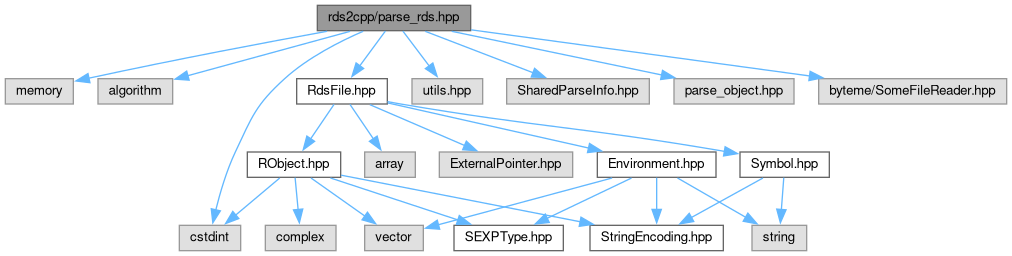
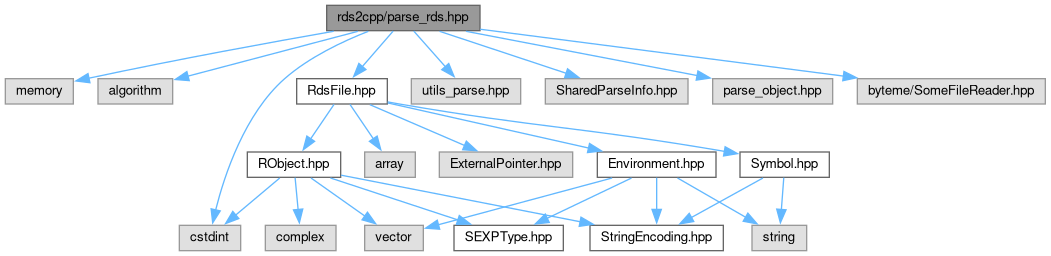
Deploying to gh-pages from @ LTLA/rds2cpp@49edde7863f42cb13daee3e616c2d430f779d815 🚀

diff --git a/docs/rds2cpp_8hpp.html b/docs/rds2cpp_8hpp.html
@@ -90,31 +90,31 @@ Include dependency graph for rds2cpp.hpp:</div>
 <div class="dyncontent">
 <div class="center"><img src="rds2cpp_8hpp__incl.png" border="0" usemap="#ards2cpp_2rds2cpp_8hpp" alt=""/></div>
 <map name="ards2cpp_2rds2cpp_8hpp" id="ards2cpp_2rds2cpp_8hpp">
-<area shape="rect" title="Entrypoint header." alt="" coords="659,5,801,31"/>
-<area shape="rect" href="parse__rds_8hpp.html" title="Parse an RDS file." alt="" coords="363,79,465,104"/>
-<area shape="rect" href="write__rds_8hpp.html" title="Write an RDS file." alt="" coords="1053,79,1151,104"/>
+<area shape="rect" title="Entrypoint header." alt="" coords="697,5,840,31"/>
+<area shape="rect" href="parse__rds_8hpp.html" title="Parse an RDS file." alt="" coords="401,79,504,104"/>
+<area shape="rect" href="write__rds_8hpp.html" title="Write an RDS file." alt="" coords="1091,79,1190,104"/>
 <area shape="rect" title=" " alt="" coords="5,152,73,177"/>
 <area shape="rect" title=" " alt="" coords="98,152,173,177"/>
-<area shape="rect" title=" " alt="" coords="325,299,386,324"/>
-<area shape="rect" href="RdsFile_8hpp.html" title="Information about an RDS file." alt="" coords="918,152,1009,177"/>
-<area shape="rect" title=" " alt="" coords="248,152,319,177"/>
-<area shape="rect" title=" " alt="" coords="343,152,485,177"/>
-<area shape="rect" title=" " alt="" coords="510,152,630,177"/>
-<area shape="rect" title=" " alt="" coords="655,152,843,177"/>
-<area shape="rect" title=" " alt="" coords="667,225,718,251"/>
-<area shape="rect" href="RObject_8hpp.html" title="Representations of unserialized R objects." alt="" coords="550,225,643,251"/>
-<area shape="rect" href="Environment_8hpp.html" title="Representation of an R environment." alt="" coords="743,225,861,251"/>
-<area shape="rect" title=" " alt="" coords="886,225,1019,251"/>
-<area shape="rect" href="Symbol_8hpp.html" title="Representation of an R symbol." alt="" coords="1095,225,1184,251"/>
-<area shape="rect" title=" " alt="" coords="773,299,831,324"/>
-<area shape="rect" title=" " alt="" coords="544,299,615,324"/>
-<area shape="rect" href="SEXPType_8hpp.html" title="R data types." alt="" coords="639,299,749,324"/>
-<area shape="rect" href="StringEncoding_8hpp.html" title="String encodings." alt="" coords="855,299,989,324"/>
-<area shape="rect" title=" " alt="" coords="1063,299,1117,324"/>
-<area shape="rect" title=" " alt="" coords="1095,152,1200,177"/>
-<area shape="rect" title=" " alt="" coords="1224,152,1340,177"/>
-<area shape="rect" title=" " alt="" coords="1365,152,1503,177"/>
-<area shape="rect" title=" " alt="" coords="1527,152,1701,177"/>
+<area shape="rect" title=" " alt="" coords="343,299,405,324"/>
+<area shape="rect" href="RdsFile_8hpp.html" title="Information about an RDS file." alt="" coords="957,152,1047,177"/>
+<area shape="rect" title=" " alt="" coords="247,152,357,177"/>
+<area shape="rect" title=" " alt="" coords="381,152,524,177"/>
+<area shape="rect" title=" " alt="" coords="549,152,669,177"/>
+<area shape="rect" title=" " alt="" coords="693,152,881,177"/>
+<area shape="rect" title=" " alt="" coords="706,225,757,251"/>
+<area shape="rect" href="RObject_8hpp.html" title="Representations of unserialized R objects." alt="" coords="589,225,682,251"/>
+<area shape="rect" href="Environment_8hpp.html" title="Representation of an R environment." alt="" coords="781,225,900,251"/>
+<area shape="rect" title=" " alt="" coords="925,225,1058,251"/>
+<area shape="rect" href="Symbol_8hpp.html" title="Representation of an R symbol." alt="" coords="1133,225,1223,251"/>
+<area shape="rect" title=" " alt="" coords="811,299,870,324"/>
+<area shape="rect" title=" " alt="" coords="583,299,653,324"/>
+<area shape="rect" href="SEXPType_8hpp.html" title="R data types." alt="" coords="678,299,787,324"/>
+<area shape="rect" href="StringEncoding_8hpp.html" title="String encodings." alt="" coords="894,299,1027,324"/>
+<area shape="rect" title=" " alt="" coords="1101,299,1156,324"/>
+<area shape="rect" title=" " alt="" coords="1133,152,1239,177"/>
+<area shape="rect" title=" " alt="" coords="1263,152,1379,177"/>
+<area shape="rect" title=" " alt="" coords="1403,152,1542,177"/>
+<area shape="rect" title=" " alt="" coords="1566,152,1739,177"/>
 </map>
 </div>
 </div>

diff --git a/docs/parse__rds_8hpp.html b/docs/parse__rds_8hpp.html
@@ -89,7 +89,7 @@ $(function() {
 <code>#include &lt;algorithm&gt;</code><br />
 <code>#include &lt;cstdint&gt;</code><br />
 <code>#include &quot;<a class="el" href="RdsFile_8hpp_source.html">RdsFile.hpp</a>&quot;</code><br />
-<code>#include &quot;utils.hpp&quot;</code><br />
+<code>#include &quot;utils_parse.hpp&quot;</code><br />
 <code>#include &quot;SharedParseInfo.hpp&quot;</code><br />
 <code>#include &quot;parse_object.hpp&quot;</code><br />
 <code>#include &quot;byteme/SomeFileReader.hpp&quot;</code><br />
@@ -98,15 +98,15 @@ Include dependency graph for parse_rds.hpp:</div>
 <div class="dyncontent">
 <div class="center"><img src="parse__rds_8hpp__incl.png" border="0" usemap="#ards2cpp_2parse__rds_8hpp" alt=""/></div>
 <map name="ards2cpp_2parse__rds_8hpp" id="ards2cpp_2parse__rds_8hpp">
-<area shape="rect" title="Parse an RDS file." alt="" coords="317,5,471,31"/>
+<area shape="rect" title="Parse an RDS file." alt="" coords="327,5,480,31"/>
 <area shape="rect" title=" " alt="" coords="5,79,73,104"/>
 <area shape="rect" title=" " alt="" coords="98,79,173,104"/>
 <area shape="rect" title=" " alt="" coords="179,225,241,251"/>
 <area shape="rect" href="RdsFile_8hpp.html" title="Information about an RDS file." alt="" coords="297,79,387,104"/>
-<area shape="rect" title=" " alt="" coords="412,79,483,104"/>
-<area shape="rect" title=" " alt="" coords="507,79,649,104"/>
-<area shape="rect" title=" " alt="" coords="674,79,794,104"/>
-<area shape="rect" title=" " alt="" coords="819,79,1007,104"/>
+<area shape="rect" title=" " alt="" coords="411,79,521,104"/>
+<area shape="rect" title=" " alt="" coords="545,79,688,104"/>
+<area shape="rect" title=" " alt="" coords="713,79,833,104"/>
+<area shape="rect" title=" " alt="" coords="857,79,1045,104"/>
 <area shape="rect" title=" " alt="" coords="365,152,415,177"/>
 <area shape="rect" href="RObject_8hpp.html" title="Representations of unserialized R objects." alt="" coords="247,152,341,177"/>
 <area shape="rect" href="Environment_8hpp.html" title="Representation of an R environment." alt="" coords="597,152,716,177"/>

diff --git a/docs/parse__rds_8hpp_source.html b/docs/parse__rds_8hpp_source.html
@@ -86,7 +86,7 @@ $(function() {
 <div class="line"><a id="l00006" name="l00006"></a><span class="lineno">    6</span><span class="preprocessor">#include &lt;cstdint&gt;</span></div>
 <div class="line"><a id="l00007" name="l00007"></a><span class="lineno">    7</span> </div>
 <div class="line"><a id="l00008" name="l00008"></a><span class="lineno">    8</span><span class="preprocessor">#include &quot;<a class="code" href="RdsFile_8hpp.html">RdsFile.hpp</a>&quot;</span></div>
-<div class="line"><a id="l00009" name="l00009"></a><span class="lineno">    9</span><span class="preprocessor">#include &quot;utils.hpp&quot;</span></div>
+<div class="line"><a id="l00009" name="l00009"></a><span class="lineno">    9</span><span class="preprocessor">#include &quot;utils_parse.hpp&quot;</span></div>
 <div class="line"><a id="l00010" name="l00010"></a><span class="lineno">   10</span><span class="preprocessor">#include &quot;SharedParseInfo.hpp&quot;</span></div>
 <div class="line"><a id="l00011" name="l00011"></a><span class="lineno">   11</span><span class="preprocessor">#include &quot;parse_object.hpp&quot;</span></div>
 <div class="line"><a id="l00012" name="l00012"></a><span class="lineno">   12</span> </div>
